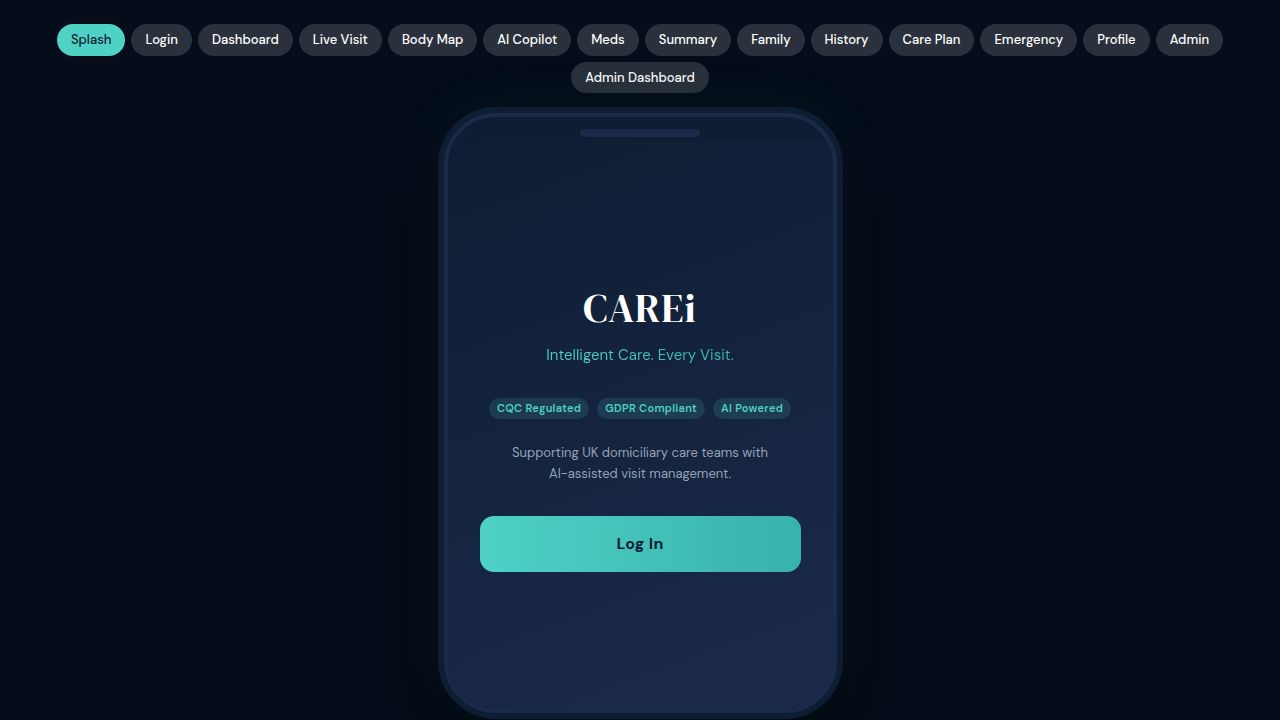
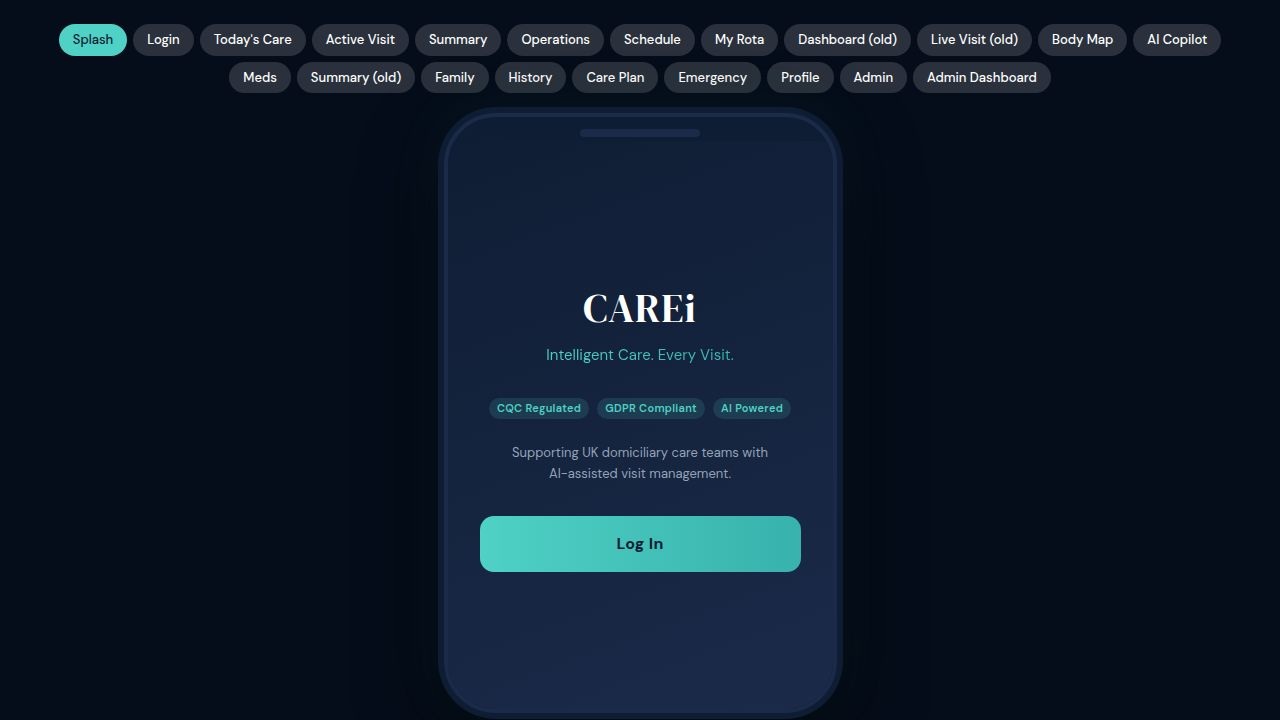
Add a rota screen for carers to view their schedule and manage shifts
Adds a new "My Rota" screen with weekly and monthly views, shift details, swap request functionality, and unavailability flagging. Also updates the navigation and fixes visit status ordering.

Replit-Commit-Author: Agent
Replit-Commit-Session-Id: 1b31bc6e-1f6e-4a0b-90fa-b63e13ad43ad
Replit-Commit-Checkpoint-Type: full_checkpoint
Replit-Commit-Event-Id: 5907e95f-2f21-4c6d-a5d0-ff7db4c1691f
Replit-Commit-Screenshot-Url: https://storage.googleapis.com/screenshot-production-us-central1/390fd41d-b214-4f1a-a19a-79ce0405ec0f/1b31bc6e-1f6e-4a0b-90fa-b63e13ad43ad/x8PyI5b
Replit-Helium-Checkpoint-Created: true

Changed region(s): [[0.0312, 0.0306, 0.9688, 0.1528]]

diff --git a/artifacts/carei-app/src/pages/CAREiApp.tsx b/artifacts/carei-app/src/pages/CAREiApp.tsx
@@ -22,7 +22,8 @@ type Screen =
   | "active-visit"
   | "continucare-summary"
   | "operations"
-  | "schedule";
+  | "schedule"
+  | "rota";
 
 interface ChatMessage {
   role: "user" | "assistant";
@@ -250,6 +251,7 @@ function NavPills({
     { key: "continucare-summary", label: "Summary" },
     { key: "operations", label: "Operations" },
     { key: "schedule", label: "Schedule" },
+    { key: "rota", label: "My Rota" },
     { key: "dashboard", label: "Dashboard (old)" },
     { key: "visit", label: "Live Visit (old)" },
     { key: "bodymap", label: "Body Map" },
@@ -2887,12 +2889,264 @@ function AdminTeaserScreen({ onBack, onOpenAdmin }: { onBack: () => void; onOpen
   );
 }
 
+// ─── Rota Screen ──────────────────────────────────────────────────────────────
+
+const WEEK_SHIFTS: { day: string; date: string; shifts: { time: string; client: string; type: string }[] }[] = [
+  { day: "Mon", date: "7 Apr", shifts: [{ time: "09:00–10:00", client: "Mary Johnson", type: "Morning" }, { time: "10:30–11:00", client: "Tom Adams", type: "Morning" }] },
+  { day: "Tue", date: "8 Apr", shifts: [{ time: "12:00–13:00", client: "Aisha Khan", type: "Afternoon" }] },
+  { day: "Wed", date: "9 Apr", shifts: [{ time: "09:00–10:00", client: "Mary Johnson", type: "Morning" }, { time: "10:30–11:00", client: "Tom Adams", type: "Morning" }, { time: "12:00–13:00", client: "Aisha Khan", type: "Afternoon" }] },
+  { day: "Thu", date: "10 Apr", shifts: [{ time: "09:00–10:00", client: "Mary Johnson", type: "Morning" }] },
+  { day: "Fri", date: "11 Apr", shifts: [{ time: "10:30–11:00", client: "Tom Adams", type: "Morning" }, { time: "12:00–13:00", client: "Aisha Khan", type: "Afternoon" }] },
+  { day: "Sat", date: "12 Apr", shifts: [] },
+  { day: "Sun", date: "13 Apr", shifts: [] },
+];
+
+const MONTH_WEEKS = [
+  { label: "Week 1 (7–13 Apr)", days: [2, 3, 3, 1, 2, 0, 0] },
+  { label: "Week 2 (14–20 Apr)", days: [2, 1, 3, 2, 2, 0, 0] },
+  { label: "Week 3 (21–27 Apr)", days: [3, 2, 3, 1, 2, 0, 0] },
+  { label: "Week 4 (28 Apr–4 May)", days: [2, 1, 3, 2, 1, 0, 0] },
+];
+
+const SWAP_CARERS = ["Alice Osei", "James Kwame", "Emma Brobbey", "Priya Nair"];
+
+function RotaScreen({ onBack }: { onBack: () => void }) {
+  const [view, setView] = useState<"week" | "month">("week");
+  const [swapShift, setSwapShift] = useState<{ day: string; time: string; client: string } | null>(null);
+  const [swapRequested, setSwapRequested] = useState<string | null>(null);
+  const [unavailDays, setUnavailDays] = useState<string[]>([]);
+  const [showUnavailForm, setShowUnavailForm] = useState(false);
+  const [unavailDate, setUnavailDate] = useState("");
+  const [unavailReason, setUnavailReason] = useState("Holiday");
+  const [swapSent, setSwapSent] = useState(false);
+
+  function requestSwap(carer: string) {
+    setSwapRequested(carer);
+    setSwapSent(true);
+    setTimeout(() => { setSwapShift(null); setSwapRequested(null); setSwapSent(false); }, 2000);
+  }
+
+  function flagUnavail() {
+    if (unavailDate) {
+      setUnavailDays((d) => [...d, unavailDate]);
+      setShowUnavailForm(false);
+      setUnavailDate("");
+    }
+  }
+
+  const totalShifts = WEEK_SHIFTS.reduce((sum, d) => sum + d.shifts.length, 0);
+  const totalHours = totalShifts * 1.5;
+
+  return (
+    <div style={{ height: "100%", background: `linear-gradient(160deg, ${COLORS.darkNavy} 0%, ${COLORS.navy} 100%)`, display: "flex", flexDirection: "column", position: "relative" }}>
+      {/* Header */}
+      <div style={{ padding: "20px 18px 12px", flexShrink: 0 }}>
+        <div style={{ display: "flex", alignItems: "center", gap: 10, marginBottom: 14 }}>
+          <button onClick={onBack} style={{ background: "rgba(255,255,255,0.1)", border: "none", borderRadius: 8, width: 32, height: 32, color: "#fff", fontSize: 16, cursor: "pointer", display: "flex", alignItems: "center", justifyContent: "center" }}>←</button>
+          <div>
+            <div style={{ fontFamily: "DM Serif Display, serif", fontSize: 22, color: "#fff", lineHeight: 1.1 }}>My Rota</div>
+            <div style={{ color: COLORS.g2, fontSize: 11 }}>April 2026</div>
+          </div>
+        </div>
+        {/* Summary strip */}
+        <div style={{ display: "grid", gridTemplateColumns: "1fr 1fr 1fr", gap: 8 }}>
+          {[
+            { label: "Shifts this week", value: String(totalShifts) },
+            { label: "Hours this week", value: `${totalHours}h` },
+            { label: "Days off", value: "2" },
+          ].map((s) => (
+            <div key={s.label} style={{ background: "rgba(255,255,255,0.07)", borderRadius: 10, padding: "10px 8px", textAlign: "center" }}>
+              <div style={{ color: COLORS.teal, fontWeight: 700, fontSize: 18 }}>{s.value}</div>
+              <div style={{ color: COLORS.g2, fontSize: 9, marginTop: 2 }}>{s.label}</div>
+            </div>
+          ))}
+        </div>
+        {/* Toggle */}
+        <div style={{ display: "flex", background: "rgba(255,255,255,0.07)", borderRadius: 10, padding: 3, marginTop: 12 }}>
+          {(["week", "month"] as const).map((v) => (
+            <button key={v} onClick={() => setView(v)} style={{ flex: 1, padding: "7px 0", borderRadius: 8, border: "none", background: view === v ? COLORS.teal : "transparent", color: view === v ? COLORS.darkNavy : COLORS.g2, fontWeight: 700, fontSize: 12, cursor: "pointer", transition: "all 0.2s", fontFamily: "DM Sans, sans-serif" }}>
+              {v === "week" ? "This Week" : "This Month"}
+            </button>
+          ))}
+        </div>
+      </div>
+
+      {/* Content */}
+      <div className="phone-scroll" style={{ flex: 1, padding: "0 14px 120px", display: "flex", flexDirection: "column", gap: 8 }}>
+        {view === "week" ? (
+          <>
+            {WEEK_SHIFTS.map((day) => {
+              const isToday = day.day === "Wed";
+              const isUnavail = unavailDays.includes(day.date);
+              return (
+                <div key={day.day} style={{ borderRadius: 14, overflow: "hidden", border: isToday ? `1px solid rgba(79,209,197,0.4)` : "1px solid rgba(255,255,255,0.06)", background: isToday ? "rgba(79,209,197,0.05)" : "rgba(255,255,255,0.04)" }}>
+                  <div style={{ display: "flex", justifyContent: "space-between", alignItems: "center", padding: "10px 14px 8px" }}>
+                    <div style={{ display: "flex", gap: 8, alignItems: "center" }}>
+                      <div style={{ width: 36, height: 36, borderRadius: 10, background: isToday ? COLORS.teal : "rgba(255,255,255,0.1)", display: "flex", flexDirection: "column", alignItems: "center", justifyContent: "center" }}>
+                        <span style={{ color: isToday ? COLORS.darkNavy : COLORS.g2, fontSize: 9, fontWeight: 700 }}>{day.day}</span>
+                        <span style={{ color: isToday ? COLORS.darkNavy : "#fff", fontSize: 13, fontWeight: 700, lineHeight: 1 }}>{day.date.split(" ")[0]}</span>
+                      </div>
+                      <div>
+                        <div style={{ color: "#fff", fontSize: 13, fontWeight: 600 }}>{day.date}</div>
+                        <div style={{ color: COLORS.g2, fontSize: 10 }}>
+                          {isUnavail ? "🔴 Unavailable" : day.shifts.length === 0 ? "Rest day" : `${day.shifts.length} shift${day.shifts.length > 1 ? "s" : ""}`}
+                        </div>
+                      </div>
+                    </div>
+                    {isToday && <Badge color={COLORS.teal} bg="rgba(79,209,197,0.15)">Today</Badge>}
+                    {!isUnavail && day.shifts.length > 0 && (
+                      <button onClick={() => { setUnavailDate(day.date); setShowUnavailForm(true); }} style={{ fontSize: 9, padding: "3px 8px", borderRadius: 99, border: `1px solid rgba(255,90,95,0.4)`, background: "rgba(255,90,95,0.1)", color: COLORS.red, cursor: "pointer", fontFamily: "DM Sans, sans-serif", fontWeight: 600 }}>Flag</button>
+                    )}
+                  </div>
+                  {day.shifts.length > 0 && !isUnavail && (
+                    <div style={{ display: "flex", flexDirection: "column", gap: 1, padding: "0 14px 10px" }}>
+                      {day.shifts.map((shift, i) => (
+                        <div key={i} style={{ display: "flex", justifyContent: "space-between", alignItems: "center", padding: "8px 10px", background: "rgba(255,255,255,0.05)", borderRadius: 8 }}>
+                          <div>
+                            <div style={{ color: "#fff", fontSize: 12, fontWeight: 500 }}>{shift.client}</div>
+                            <div style={{ color: COLORS.g2, fontSize: 10 }}>{shift.time} · {shift.type}</div>
+                          </div>
+                          <button onClick={() => setSwapShift({ day: day.day, time: shift.time, client: shift.client })} style={{ fontSize: 9, padding: "3px 8px", borderRadius: 99, border: `1px solid rgba(79,209,197,0.4)`, background: "rgba(79,209,197,0.1)", color: COLORS.teal, cursor: "pointer", fontFamily: "DM Sans, sans-serif", fontWeight: 600 }}>Swap</button>
+                        </div>
+                      ))}
+                    </div>
+                  )}
+                </div>
+              );
+            })}
+          </>
+        ) : (
+          <>
+            {MONTH_WEEKS.map((week) => (
+              <div key={week.label} style={{ background: "rgba(255,255,255,0.05)", borderRadius: 14, padding: "12px 14px" }}>
+                <div style={{ color: COLORS.g2, fontSize: 11, fontWeight: 600, marginBottom: 10 }}>{week.label}</div>
+                <div style={{ display: "grid", gridTemplateColumns: "repeat(7,1fr)", gap: 4 }}>
+                  {["M", "T", "W", "T", "F", "S", "S"].map((d, i) => (
+                    <div key={i} style={{ textAlign: "center" }}>
+                      <div style={{ color: COLORS.g2, fontSize: 9, marginBottom: 4 }}>{d}</div>
+                      <div style={{ width: 30, height: 30, borderRadius: 8, background: week.days[i] > 0 ? "rgba(79,209,197,0.15)" : "rgba(255,255,255,0.04)", display: "flex", alignItems: "center", justifyContent: "center", margin: "0 auto", border: week.days[i] > 0 ? "1px solid rgba(79,209,197,0.3)" : "1px solid rgba(255,255,255,0.06)" }}>
+                        {week.days[i] > 0 ? (
+                          <span style={{ color: COLORS.teal, fontSize: 12, fontWeight: 700 }}>{week.days[i]}</span>
+                        ) : (
+                          <span style={{ color: COLORS.g2, fontSize: 9 }}>–</span>
+                        )}
+                      </div>
+                    </div>
+                  ))}
+                </div>
+              </div>
+            ))}
+            <div style={{ background: "rgba(255,255,255,0.05)", borderRadius: 14, padding: "12px 14px" }}>
+              <div style={{ color: COLORS.g2, fontSize: 11, fontWeight: 600, marginBottom: 8 }}>Monthly Summary</div>
+              {[{ label: "Total shifts", value: "42" }, { label: "Total hours", value: "63h" }, { label: "Avg per day", value: "2.1" }].map((s) => (
+                <div key={s.label} style={{ display: "flex", justifyContent: "space-between", padding: "6px 0", borderBottom: "1px solid rgba(255,255,255,0.06)" }}>
+                  <span style={{ color: COLORS.g2, fontSize: 12 }}>{s.label}</span>
+                  <span style={{ color: "#fff", fontSize: 12, fontWeight: 600 }}>{s.value}</span>
+                </div>
+              ))}
+            </div>
+          </>
+        )}
+
+        {/* Flagged unavailability */}
+        {unavailDays.length > 0 && (
+          <div style={{ background: "rgba(255,90,95,0.08)", borderRadius: 14, padding: "12px 14px", border: "1px solid rgba(255,90,95,0.2)" }}>
+            <div style={{ color: COLORS.red, fontSize: 12, fontWeight: 700, marginBottom: 8 }}>Flagged Unavailability</div>
+            {unavailDays.map((d) => (
+              <div key={d} style={{ display: "flex", justifyContent: "space-between", alignItems: "center", padding: "6px 0", borderBottom: "1px solid rgba(255,255,255,0.06)" }}>
+                <span style={{ color: COLORS.g1, fontSize: 12 }}>{d}</span>
+                <button onClick={() => setUnavailDays((ds) => ds.filter((x) => x !== d))} style={{ fontSize: 9, padding: "2px 8px", borderRadius: 99, border: "none", background: "rgba(255,90,95,0.2)", color: COLORS.red, cursor: "pointer", fontFamily: "DM Sans, sans-serif" }}>Remove</button>
+              </div>
+            ))}
+          </div>
+        )}
+      </div>
+
+      {/* Flag Unavailability bottom button */}
+      <div style={{ position: "absolute", bottom: 0, left: 0, right: 0, padding: "12px 14px 20px", background: "rgba(15,29,52,0.97)", borderTop: "1px solid rgba(255,255,255,0.08)" }}>
+        <button onClick={() => setShowUnavailForm(true)} style={{ width: "100%", padding: "13px 0", borderRadius: 12, border: `1px solid rgba(255,90,95,0.4)`, background: "rgba(255,90,95,0.1)", color: COLORS.red, fontSize: 14, fontWeight: 700, cursor: "pointer", fontFamily: "DM Sans, sans-serif" }}>+ Flag Unavailability</button>
+      </div>
+
+      {/* Swap Request Modal */}
+      {swapShift && (
+        <div style={{ position: "absolute", inset: 0, background: "rgba(0,0,0,0.6)", display: "flex", flexDirection: "column", justifyContent: "flex-end", zIndex: 50 }}>
+          <div style={{ background: COLORS.navy, borderRadius: "20px 20px 0 0", padding: 20, animation: "slideUp 0.3s ease" }}>
+            <div style={{ width: 40, height: 4, background: "rgba(255,255,255,0.2)", borderRadius: 2, margin: "0 auto 16px" }} />
+            <div style={{ fontFamily: "DM Serif Display, serif", fontSize: 18, color: "#fff", marginBottom: 4 }}>Request Shift Swap</div>
+            <div style={{ color: COLORS.g2, fontSize: 12, marginBottom: 16 }}>{swapShift.day} · {swapShift.time} · {swapShift.client}</div>
+            {swapSent ? (
+              <div style={{ background: "rgba(34,197,94,0.15)", border: "1px solid rgba(34,197,94,0.3)", borderRadius: 12, padding: 16, textAlign: "center" }}>
+                <div style={{ fontSize: 24, marginBottom: 6 }}>✓</div>
+                <div style={{ color: COLORS.green, fontWeight: 700, fontSize: 14 }}>Swap request sent to {swapRequested}</div>
+                <div style={{ color: COLORS.g2, fontSize: 11, marginTop: 4 }}>Awaiting confirmation from supervisor</div>
+              </div>
+            ) : (
+              <>
+                <div style={{ color: COLORS.g2, fontSize: 11, fontWeight: 600, marginBottom: 10 }}>Select a carer to request swap with:</div>
+                <div style={{ display: "flex", flexDirection: "column", gap: 8 }}>
+                  {SWAP_CARERS.map((carer) => (
+                    <button key={carer} onClick={() => requestSwap(carer)} style={{ display: "flex", alignItems: "center", gap: 12, padding: "12px 14px", borderRadius: 12, border: "1px solid rgba(79,209,197,0.25)", background: "rgba(79,209,197,0.07)", cursor: "pointer" }}>
+                      <div style={{ width: 36, height: 36, borderRadius: "50%", background: `linear-gradient(135deg, ${COLORS.teal}, ${COLORS.teal2})`, display: "flex", alignItems: "center", justifyContent: "center", color: COLORS.darkNavy, fontWeight: 700, fontSize: 12, flexShrink: 0 }}>
+                        {carer.split(" ").map((n) => n[0]).join("")}
+                      </div>
+                      <span style={{ color: "#fff", fontWeight: 500, fontSize: 13, fontFamily: "DM Sans, sans-serif" }}>{carer}</span>
+                    </button>
+                  ))}
+                </div>
+                <button onClick={() => setSwapShift(null)} style={{ marginTop: 14, width: "100%", padding: "11px 0", borderRadius: 12, border: "1px solid rgba(255,255,255,0.1)", background: "transparent", color: COLORS.g2, fontSize: 13, cursor: "pointer", fontFamily: "DM Sans, sans-serif" }}>Cancel</button>
+              </>
+            )}
+          </div>
+        </div>
+      )}
+
+      {/* Flag Unavailability Modal */}
+      {showUnavailForm && (
+        <div style={{ position: "absolute", inset: 0, background: "rgba(0,0,0,0.6)", display: "flex", flexDirection: "column", justifyContent: "flex-end", zIndex: 50 }}>
+          <div style={{ background: COLORS.navy, borderRadius: "20px 20px 0 0", padding: 20, animation: "slideUp 0.3s ease" }}>
+            <div style={{ width: 40, height: 4, background: "rgba(255,255,255,0.2)", borderRadius: 2, margin: "0 auto 16px" }} />
+            <div style={{ fontFamily: "DM Serif Display, serif", fontSize: 18, color: "#fff", marginBottom: 16 }}>Flag Unavailability</div>
+            <div style={{ display: "flex", flexDirection: "column", gap: 12 }}>
+              <div>
+                <label style={{ color: COLORS.g2, fontSize: 11, fontWeight: 600, display: "block", marginBottom: 6 }}>Date</label>
+                <input
+                  type="date"
+                  value={unavailDate}
+                  onChange={(e) => setUnavailDate(e.target.value)}
+                  style={{ width: "100%", padding: "10px 12px", borderRadius: 10, border: "1px solid rgba(255,255,255,0.15)", background: "rgba(255,255,255,0.07)", color: "#fff", fontSize: 13, fontFamily: "DM Sans, sans-serif", boxSizing: "border-box" }}
+                />
+              </div>
+              <div>
+                <label style={{ color: COLORS.g2, fontSize: 11, fontWeight: 600, display: "block", marginBottom: 6 }}>Reason</label>
+                <select
+                  value={unavailReason}
+                  onChange={(e) => setUnavailReason(e.target.value)}
+                  style={{ width: "100%", padding: "10px 12px", borderRadius: 10, border: "1px solid rgba(255,255,255,0.15)", background: COLORS.navy, color: "#fff", fontSize: 13, fontFamily: "DM Sans, sans-serif", boxSizing: "border-box" }}
+                >
+                  {["Holiday", "Sick Leave", "Personal", "Medical Appointment", "Other"].map((r) => (
+                    <option key={r} value={r}>{r}</option>
+                  ))}
+                </select>
+              </div>
+            </div>
+            <div style={{ display: "flex", gap: 10, marginTop: 18 }}>
+              <button onClick={() => setShowUnavailForm(false)} style={{ flex: 1, padding: "12px 0", borderRadius: 12, border: "1px solid rgba(255,255,255,0.1)", background: "transparent", color: COLORS.g2, fontSize: 13, cursor: "pointer", fontFamily: "DM Sans, sans-serif" }}>Cancel</button>
+              <button onClick={flagUnavail} style={{ flex: 2, padding: "12px 0", borderRadius: 12, border: "none", background: COLORS.red, color: "#fff", fontSize: 13, fontWeight: 700, cursor: "pointer", fontFamily: "DM Sans, sans-serif" }}>Flag as Unavailable</button>
+            </div>
+          </div>
+        </div>
+      )}
+    </div>
+  );
+}
+
 // ─── New Screens ───────────────────────────────────────────────────────────────
 
 function TodayCareScreen({
   visitStatuses,
   onSelectClient,
   onOperations,
+  onRota,
   onAssistant,
   onSOS,
   onProfile,
@@ -2900,6 +3154,7 @@ function TodayCareScreen({
   visitStatuses: Record<string, string>;
   onSelectClient: (id: string) => void;
   onOperations: () => void;
+  onRota: () => void;
   onAssistant: () => void;
   onSOS: () => void;
   onProfile: () => void;
@@ -2987,8 +3242,8 @@ function TodayCareScreen({
       <div style={{ position: "absolute", bottom: 0, left: 0, right: 0, height: 78, background: "rgba(15,29,52,0.97)", borderTop: "1px solid rgba(255,255,255,0.08)", display: "flex", alignItems: "center", justifyContent: "space-around", padding: "0 8px" }}>
         {[
           { icon: "🏠", label: "Home", action: undefined as undefined | (() => void) },
-          { icon: "📅", label: "Schedule", action: onOperations },
-          { icon: "📋", label: "Reports", action: undefined },
+          { icon: "📅", label: "My Rota", action: onRota },
+          { icon: "⚙️", label: "Operations", action: onOperations },
           { icon: "👤", label: "Profile", action: onProfile },
         ].map((n) => (
           <div key={n.label} onClick={n.action} style={{ display: "flex", flexDirection: "column", alignItems: "center", cursor: n.action ? "pointer" : "default", gap: 2, opacity: n.label === "Home" ? 1 : 0.5 }}>
@@ -3560,7 +3815,7 @@ export default function CAREiApp() {
   const [screen, setScreen] = useState<Screen>(() => {
     try {
       const saved = sessionStorage.getItem("carei_screen") as Screen;
-      const valid: Screen[] = ["splash","otp","dashboard","visit","copilot","medication","summary","profile","family","bodymap","admin","admin-dashboard","visit-history","care-plan","emergency","today","active-visit","continucare-summary","operations","schedule"];
+      const valid: Screen[] = ["splash","otp","dashboard","visit","copilot","medication","summary","profile","family","bodymap","admin","admin-dashboard","visit-history","care-plan","emergency","today","active-visit","continucare-summary","operations","schedule","rota"];
       return valid.includes(saved) ? saved : "splash";
     } catch {
       return "splash";
@@ -3570,9 +3825,9 @@ export default function CAREiApp() {
   const [showAssistant, setShowAssistant] = useState(false);
   const [activeClientId, setActiveClientId] = useState<string>("mary");
   const [visitStatuses, setVisitStatuses] = useState<Record<string, string>>({
-    mary: "pending",
+    mary: "completed",
     tom: "in-progress",
-    aisha: "completed",
+    aisha: "pending",
   });
   const [assignedCarers, setAssignedCarers] = useState<Record<string, string>>({
     mary: "Sarah",
@@ -3646,6 +3901,7 @@ export default function CAREiApp() {
             visitStatuses={visitStatuses}
             onSelectClient={(id) => { setActiveClientId(id); setVisitStatuses((s) => ({ ...s, [id]: "in-progress" })); nav("active-visit"); }}
             onOperations={() => nav("operations")}
+            onRota={() => nav("rota")}
             onAssistant={() => setShowAssistant(true)}
             onSOS={() => setShowSOS(true)}
             onProfile={() => nav("profile")}
@@ -3691,6 +3947,8 @@ export default function CAREiApp() {
             onBack={() => nav("operations")}
           />
         );
+      case "rota":
+        return <RotaScreen onBack={() => nav("today")} />;
       default:
         return null;
     }